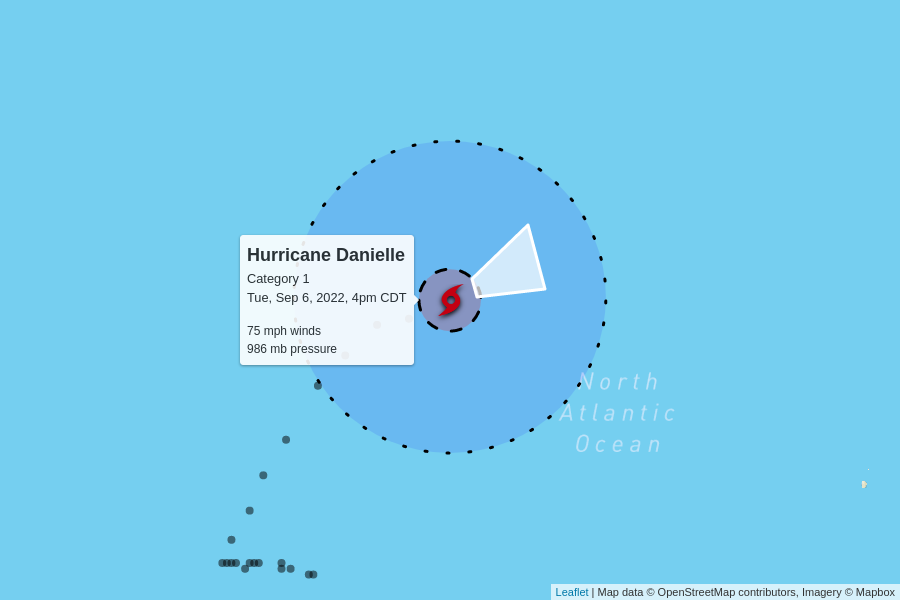
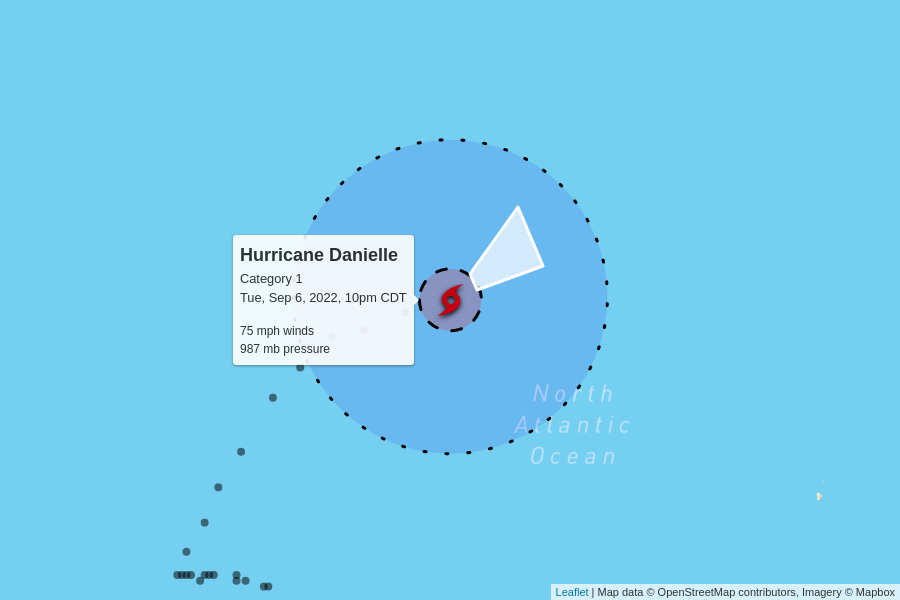
automatic update

diff --git a/docs/index.html b/docs/index.html
@@ -99,8 +99,52 @@
       <tr>
         <td colspan="6" class="storm category-1" >
           <h2>
+            Hurricane Danielle - Category 1
+            <p class="updated">last updated <span data-time>2022-09-07T03:00:00.000Z</span></p>
+          </h2>
+        </td>
+      </tr>
+      
+      <tr>
+        <th class="spacer"></th>
+        <th>wind speed</th>
+        <th>central pressure</th>
+        <th>movement</th>
+        <th>data (CSV)</th>
+        <th>National Hurricane Center</th>
+      </tr>
+      <tr>
+        <td class="spacer"></td>
+        <td>75 mph</td>
+        <td>987 mb</td>
+        <td>
+          13 mph to the east-northeast
+          <br/>
+          <span style="display: inline-block; font-size: 1.5em; transform: rotate(60deg);">↑</span>
+        </td>
+        <td><a href="https://raw.githubusercontent.com/mgwalker/atlantic-hurricanes/main/data/csv/AL052022.csv">AL052022.csv</a></td>
+        <td><a href="https://www.nhc.noaa.gov/archive/2022/DANIELLE.shtml?">NHC advisories</a></td>
+      </tr>
+      <tr id="storm_AL052022" >
+        <td class="spacer">
+        <td colspan="5">
+          <figure>
+            <img src="AL052022.png">
+            <figcaption>
+              Map data &copy; <a href="https://www.openstreetmap.org/copyright">OpenStreetMap</a> contributors,
+              Imagery &copy; <a href="https://www.mapbox.com/">Mapbox</a> |
+              <a href="https://www.mapbox.com/map-feedback/" target="_blank">Improve this map</a>
+            </figcaption>
+          </figure>
+        </td>
+      </tr>
+      
+
+      <tr>
+        <td colspan="6" class="storm category-1" >
+          <h2>
             Hurricane Earl - Category 1
-            <p class="updated">last updated <span data-time>2022-09-07T00:00:00.000Z</span></p>
+            <p class="updated">last updated <span data-time>2022-09-07T03:00:00.000Z</span></p>
           </h2>
         </td>
       </tr>
@@ -118,9 +162,9 @@
         <td>80 mph</td>
         <td>985 mb</td>
         <td>
-          6 mph to the north
+          7 mph to the north
           <br/>
-          <span style="display: inline-block; font-size: 1.5em; transform: rotate(350deg);">↑</span>
+          <span style="display: inline-block; font-size: 1.5em; transform: rotate(360deg);">↑</span>
         </td>
         <td><a href="https://raw.githubusercontent.com/mgwalker/atlantic-hurricanes/main/data/csv/AL062022.csv">AL062022.csv</a></td>
         <td><a href="https://www.nhc.noaa.gov/archive/2022/EARL.shtml?">NHC advisories</a></td>
@@ -130,50 +174,6 @@
         <td colspan="5">
           <figure>
             <img src="AL062022.png">
-            <figcaption>
-              Map data &copy; <a href="https://www.openstreetmap.org/copyright">OpenStreetMap</a> contributors,
-              Imagery &copy; <a href="https://www.mapbox.com/">Mapbox</a> |
-              <a href="https://www.mapbox.com/map-feedback/" target="_blank">Improve this map</a>
-            </figcaption>
-          </figure>
-        </td>
-      </tr>
-      
-
-      <tr>
-        <td colspan="6" class="storm category-1" >
-          <h2>
-            Hurricane Danielle - Category 1
-            <p class="updated">last updated <span data-time>2022-09-06T21:00:00.000Z</span></p>
-          </h2>
-        </td>
-      </tr>
-      
-      <tr>
-        <th class="spacer"></th>
-        <th>wind speed</th>
-        <th>central pressure</th>
-        <th>movement</th>
-        <th>data (CSV)</th>
-        <th>National Hurricane Center</th>
-      </tr>
-      <tr>
-        <td class="spacer"></td>
-        <td>75 mph</td>
-        <td>986 mb</td>
-        <td>
-          7 mph to the east-northeast
-          <br/>
-          <span style="display: inline-block; font-size: 1.5em; transform: rotate(70deg);">↑</span>
-        </td>
-        <td><a href="https://raw.githubusercontent.com/mgwalker/atlantic-hurricanes/main/data/csv/AL052022.csv">AL052022.csv</a></td>
-        <td><a href="https://www.nhc.noaa.gov/archive/2022/DANIELLE.shtml?">NHC advisories</a></td>
-      </tr>
-      <tr id="storm_AL052022" >
-        <td class="spacer">
-        <td colspan="5">
-          <figure>
-            <img src="AL052022.png">
             <figcaption>
               Map data &copy; <a href="https://www.openstreetmap.org/copyright">OpenStreetMap</a> contributors,
               Imagery &copy; <a href="https://www.mapbox.com/">Mapbox</a> |
